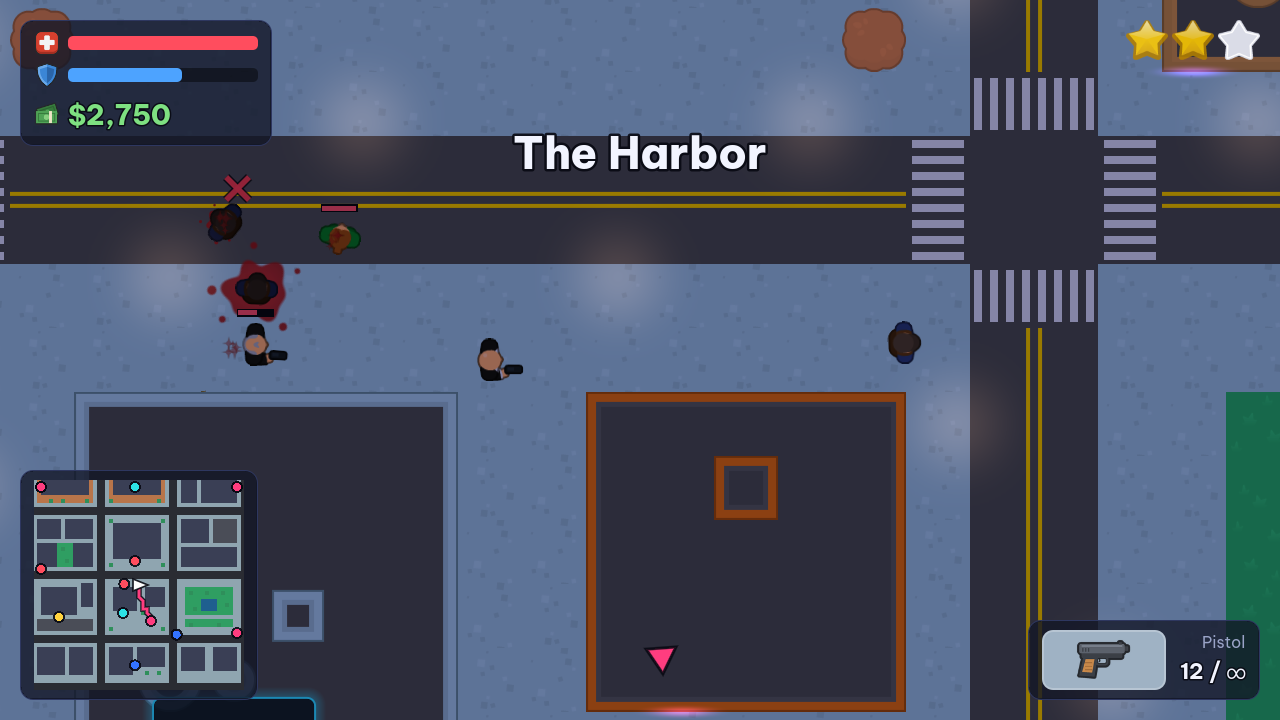
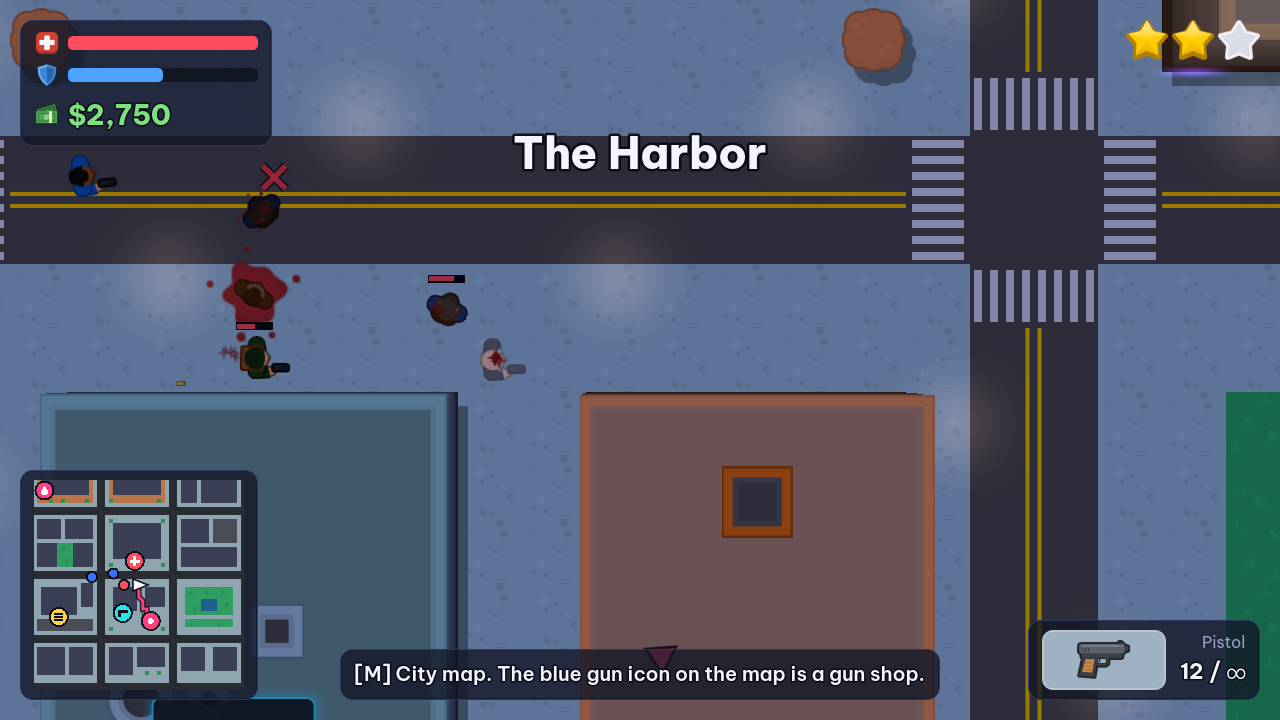
Make buildings stand out: GTA 2-style parallax walls and roofs, roof tints, drop shadows
Players kept driving into buildings because roofs were the same grey as the
asphalt and everything looked flat.

- New BuildingDepth: the collision footprint stays put; 4 wall layers and a
  roof layer per height class (two heights) are scaled around the camera's
  screen centre each frame, so roofs lean away from the centre and show their
  walls. Transforms go straight to the RenderingServer (changing a
  TileMapLayer's node transform re-walks every cell, ~3.5 ms/frame) and the
  node runs after the camera so roofs stay locked to the ground during shake.
- Roofs and walls are tinted per building style through alternative tiles and
  a small shader, so roofs read clearly apart from both road and sidewalk.
- Drop shadows for buildings, trees and crates; only green bushes on paving
  and dirt (orange bushes vanished on the orange plaza tiles).
- Mission markers and shop signs draw above roofs; facade neon below them.
- Fix: pickups dropped inside a physics callback (a car running over a gang
  member) are added deferred, removing "flushing queries" engine errors.
- Smoke test covers roof shift, shake sync, untouched layer transforms,
  markers above roofs, shadows, bush colours and drops in physics callbacks;
  the carjack playtest step moves the camera with the teleported player.
- README text and screenshots updated.

diff --git a/README.md b/README.md
@@ -22,7 +22,9 @@ Made with Godot 4.7.2 (GDScript, Compatibility renderer).
   into `TileMapLayer`s: nine districts (Hillside, Downtown, Uptown Park, Night Market, Midtown, Eastside, Rail Yard,
   The Harbor, Marina Beach), a river crossed by four bridges, and a waterfront. The district name appears when you
   enter it. Building roofs are auto-tiled from Kenney's wall tiles (47 edge/corner shapes in three colours);
-  neon strips glow under the eaves and market stalls have canopies you can walk under.
+  neon strips glow under the eaves and market stalls have canopies you can walk under. Buildings stand out like in
+  GTA 2: wall and roof layers scale around the camera centre, so roofs lean away from you and show their walls
+  (two building heights), roofs are tinted apart from the road, and buildings, trees and crates cast drop shadows.
 - On foot: 8 weapons defined as data (`game/data/weapons.json`): pistol, SMG, shotgun, assault rifle,
   sniper rifle (pierces 3 targets), grenades, flamethrower (sets targets on fire), rocket launcher.
   Muzzle flash, ejected casings, tracers, screen shake, knockback and hit flash. Wounded people show a small health
